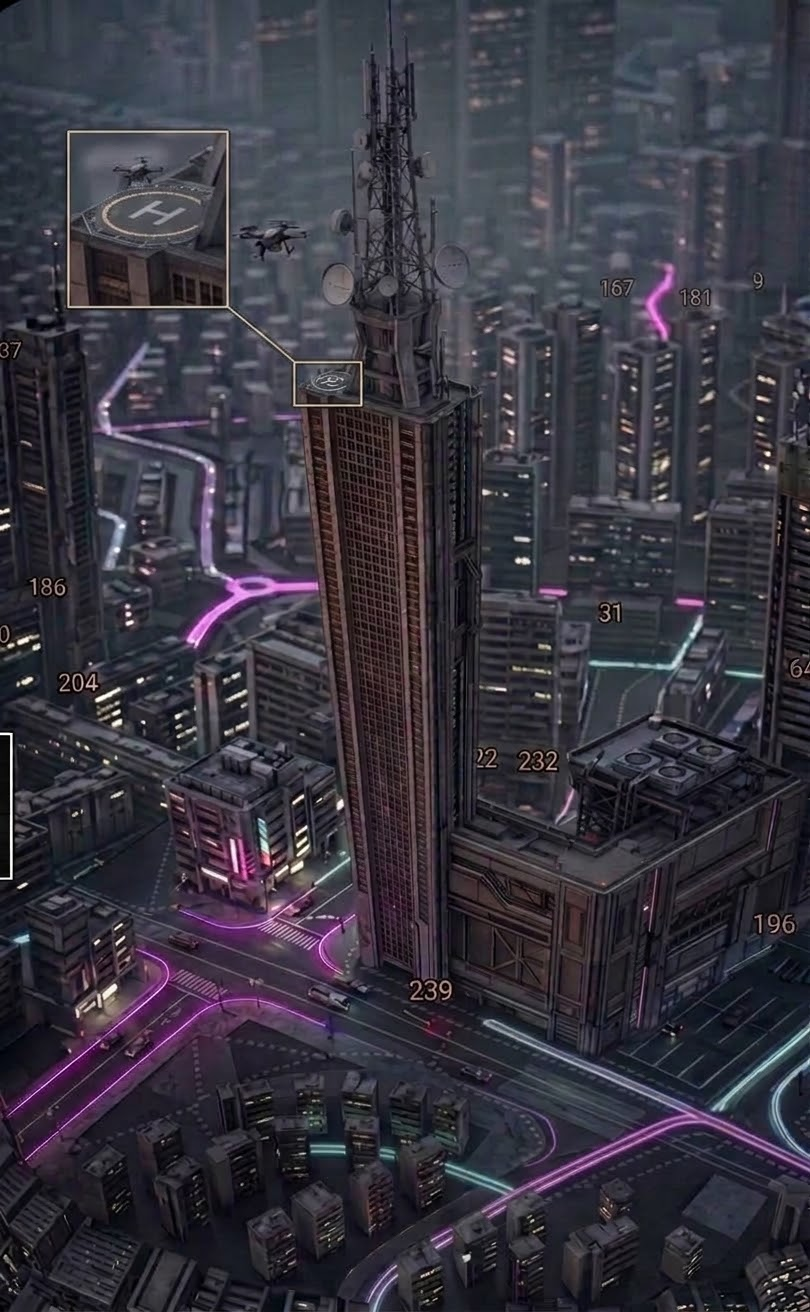
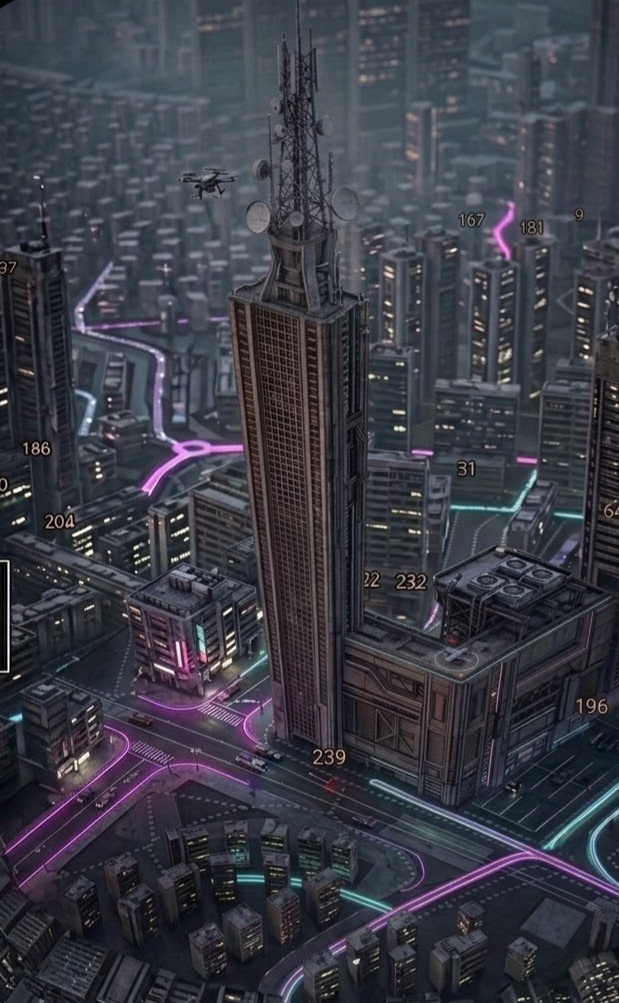
edifici

diff --git a/mappa/data/cy-data-buildings.js b/mappa/data/cy-data-buildings.js
@@ -75,7 +75,46 @@ const DEFAULT_BUILDING_DESCRIPTIONS = [
     street: "NEON HIDEOUT",
     number: 239,
     blurb: "Casa.<img src=\"img/casa-cto.jpg\" alt=\"Mia Immagine\">",
-    subAddress: "a7_832<br><small>Svarta</small>",
+    subAddress: "277_3<br><small>South Central</small>",
+  },
+  {
+    id: "17.882019,59.345687",
+    name: "Shop",
+    color: "#3ab7e8",
+    street: "FUTURA MALUM™ PATH",
+    number: 220,
+    blurb: "Dr e ILG",
+    subAddress: "<br><small>Svarta</small>",
+  },
+  {
+    id: "18.041158,59.250170",
+    name: "Crash Kids Hideout",
+    color: "#ec2828",
+    street: "TOXIC YARD",
+    number: 61,
+    blurb: "<img src=\"img/crash-kids.png\" alt=\"Mia Immagine\">Discarica industriale dove vivono i Crash Kids",
+    subAddress: "<br><small>Burnchurch Hex</small>",
+  },
+  {
+    id: "18.026666,59.259151",
+    name: "Shop",
+    color: "#3ab7e8",
+    street: "CORE CHUTE",
+    number: 64,
+    blurb: "Dr e ILG",
+    subAddress: "<br><small>Burnchurch Hex</small>",
+  },
+  {
+    id: "18.027384,59.257122",
+    name: "Chiesa",
+    color: "#cd00d4",
+    blurb: "Chiesa.<img src=\"img/hex-church.jpg\" alt=\"Mia Immagine\">"
+  },
+  {
+    id: "18.027725,59.256882",
+    name: "Chiesa",
+    color: "#cd00d4",
+    blurb: "Chiesa.<img src=\"img/hex-church.jpg\" alt=\"Mia Immagine\">"
   }
 ];
 
@@ -95,7 +134,7 @@ const CUSTOM_BUILDING_DESCRIPTIONS = [
   {
     street: "NULL CHUTE",
     number: 417,
-    subAddress: "d16_654<br><small>Svarta</small>",
+    subAddress: "16_654<br><small>Svarta</small>",
     lng: 17.88497,
     lat: 59.34311,
     radius: 0.00006,
@@ -119,20 +158,6 @@ const CUSTOM_BUILDING_DESCRIPTIONS = [
     blurb: "Chiesa.<img src=\"img/hex-church.jpg\" alt=\"Mia Immagine\">",
     height: 80,   // opzionale — se omesso: 1.5
     base: 0
-  },
-  {
-    street: "NEON HIDEOUT",
-    number: 16,
-    subAddress: "a265_3<br><small>South Central</small>",
-    lng: 17.98803,
-    lat: 59.29732,
-    radius: 0.00006,
-    name: "CASA CTO",
-    rotation: 75, // opzionale, in gradi (0 = nord)
-    color: "#cd00d4",
-    blurb: "Casa.<img src=\"img/casa-cto.jpg\" alt=\"Mia Immagine\">",
-    height: 265,   // opzionale — se omesso: 1.5
-    base: 264
   },
   {
     street: "OVERCLOCK YARD",
